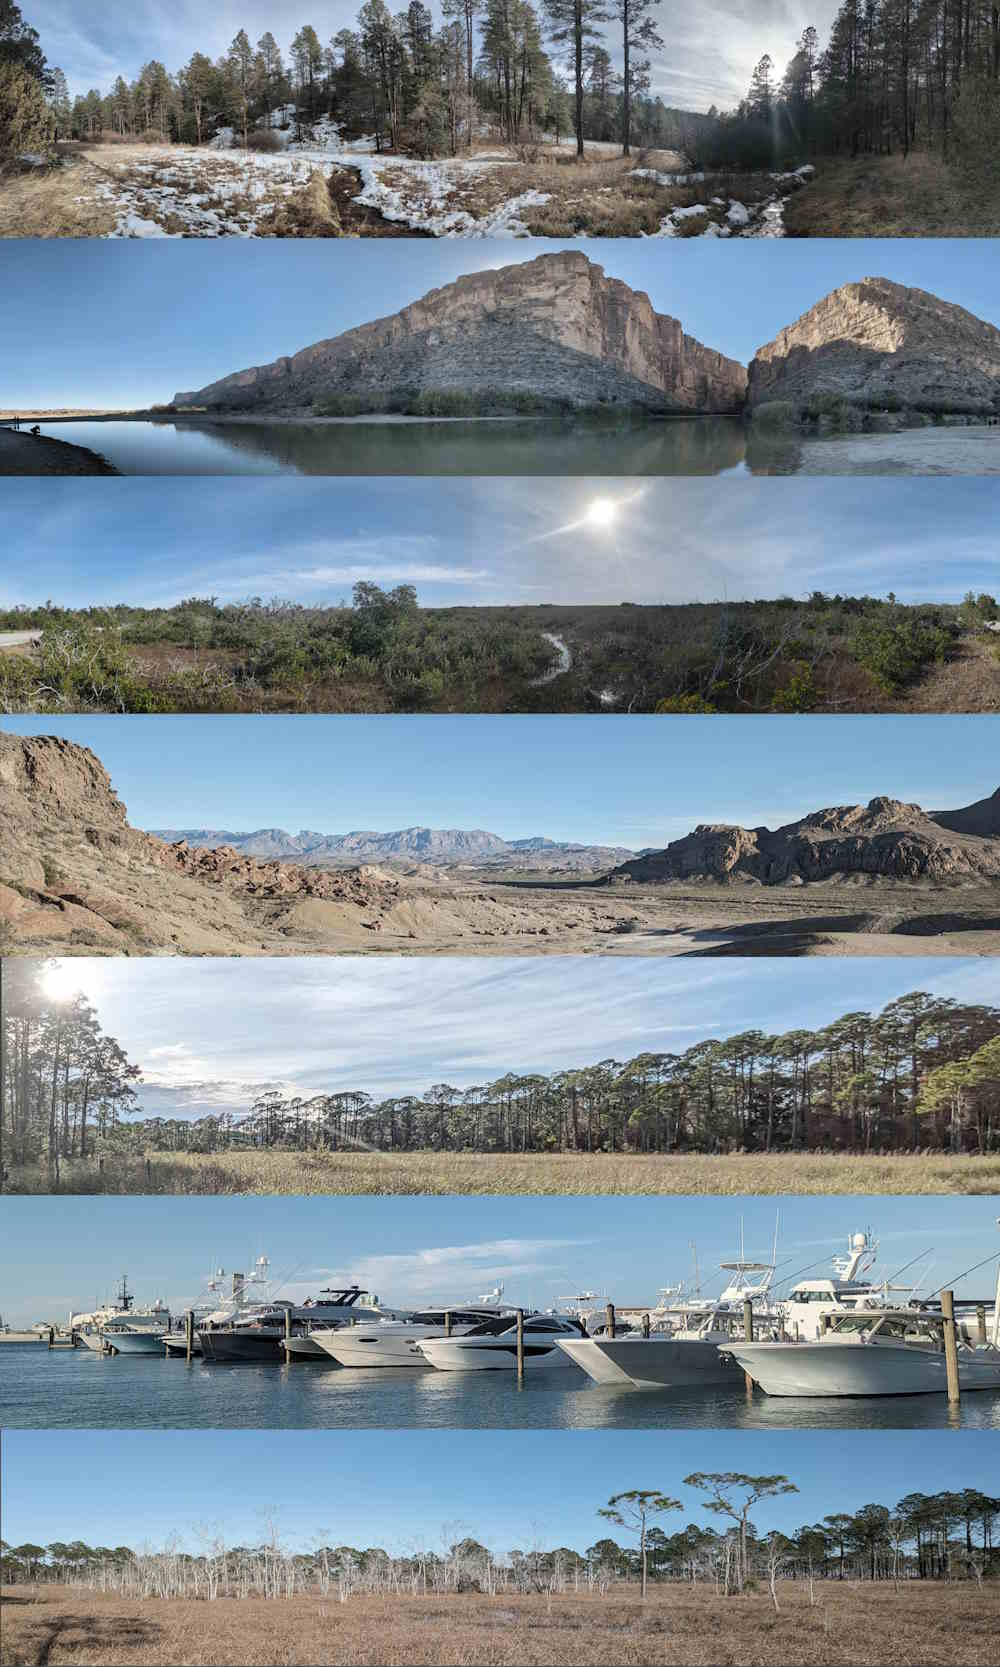
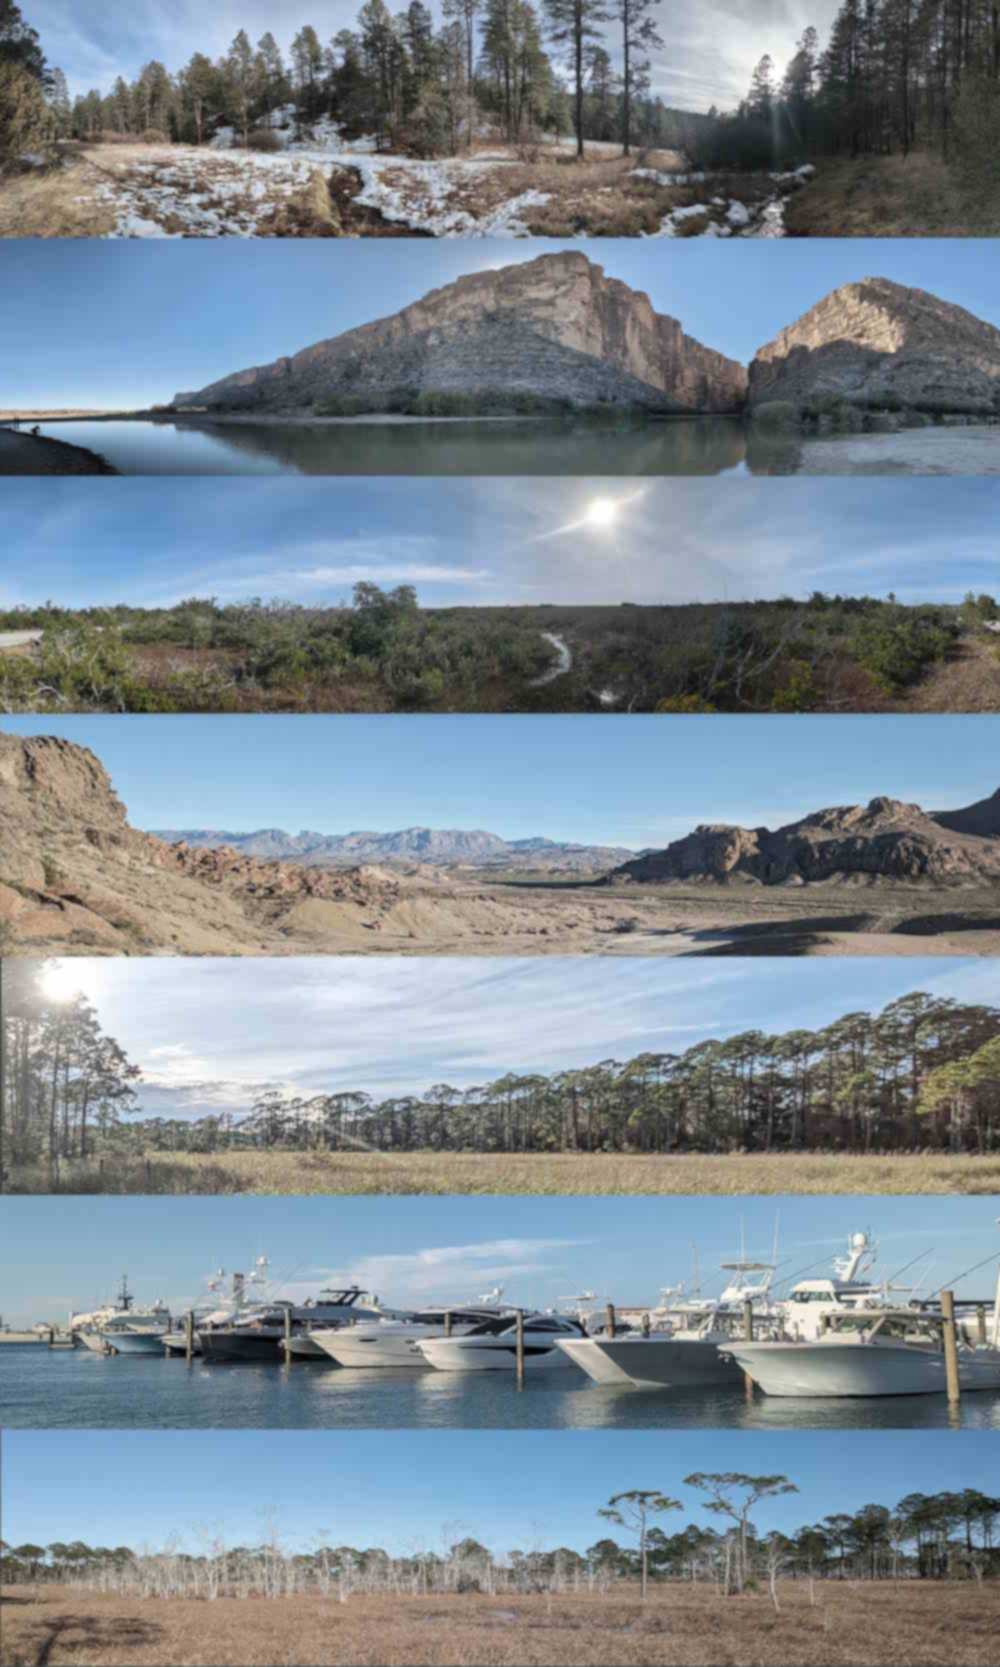
_

diff --git a/RV.html b/RV.html
@@ -6,7 +6,7 @@
       <head> 
              <style>
       body  {
-      background-image: url("bacrv.png");
+      background-image: url("bacrv.jpg");
       background-repeat: repeat;
       background-size: 100%
       }
